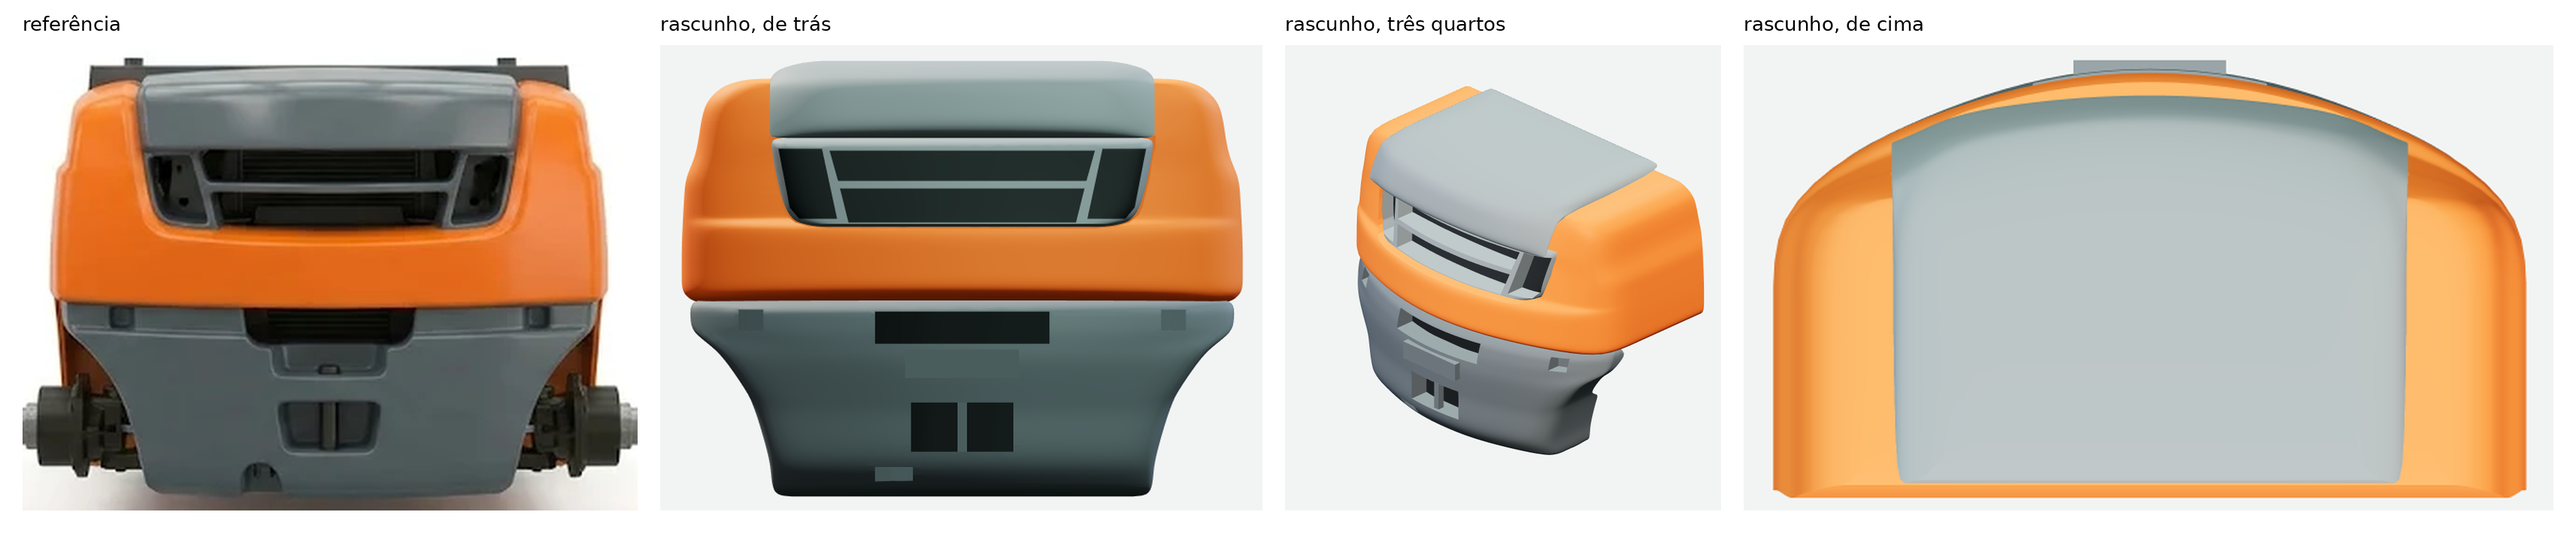
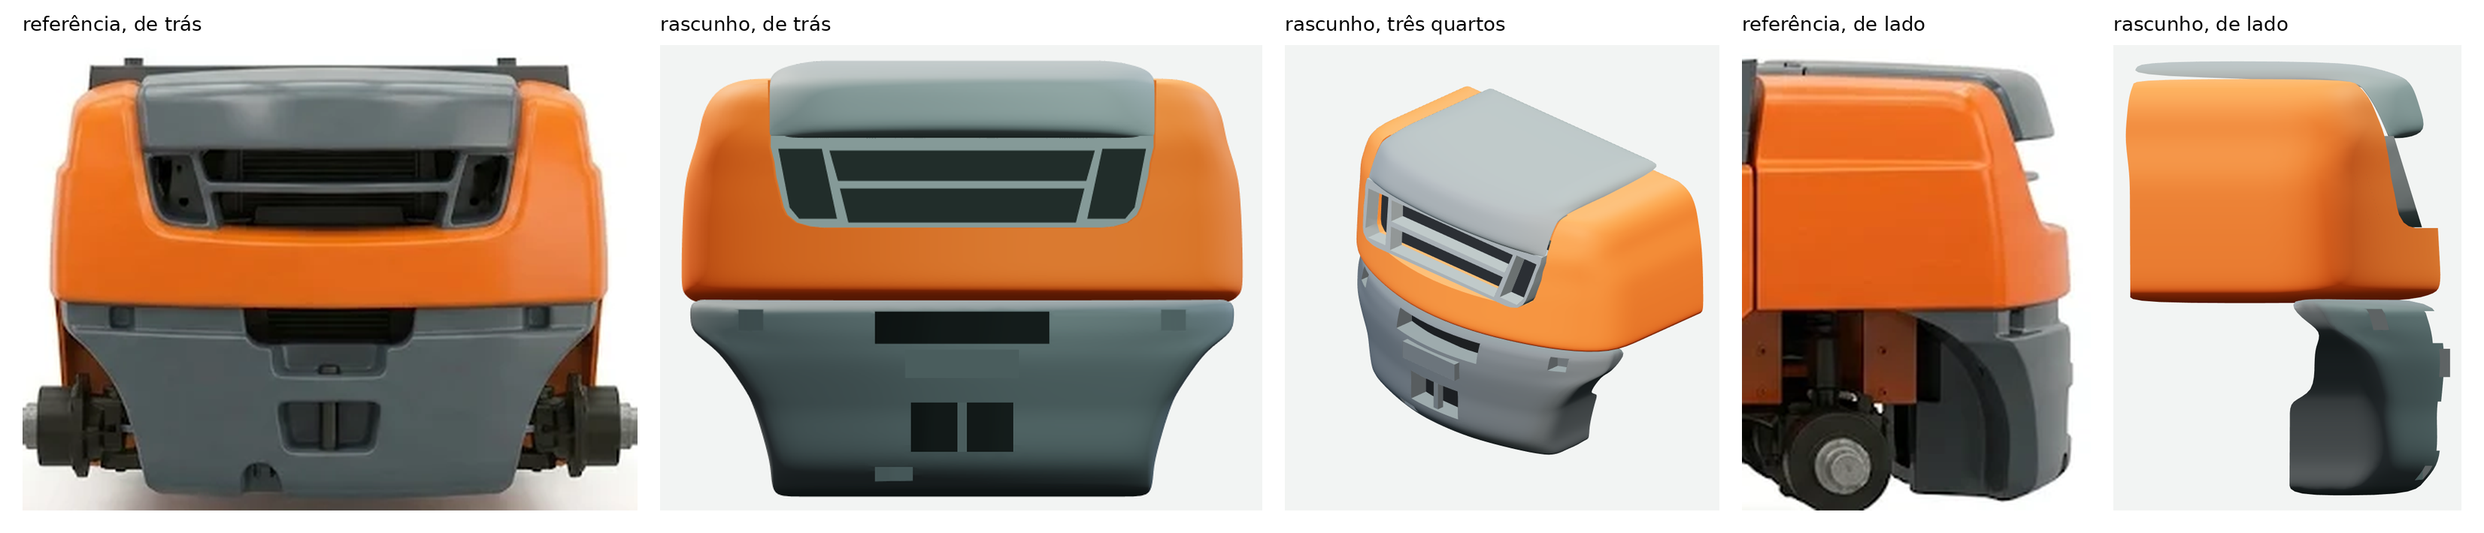
Empilhadeira: capô sem o degrau, que era a soleira do vão da grade [skip ci]
Claude-Session: https://claude.ai/code/session_01Gz8kbSKSe3Jte98VbVpGNR

diff --git a/procedural/nucleo/lacos-pelas-vistas.js b/procedural/nucleo/lacos-pelas-vistas.js
@@ -41,6 +41,10 @@
  * O LAÇO CURTO. Onde o intervalo da altura mede menos que os dois recuos somados (a aba de uma tampa, a ponta de um bico), os
  * recuos encolhem por igual até o lado do laço medir `espessuraMinima`, e a altura entra em `avisos`.
  *
+ * A SILHUETA NÃO É A SEÇÃO DO MEIO quando o corpo tem um vão no centro da ponta (a grade de um capô): acima da soleira do vão, o
+ * que a vista de lado mostra é a borda dele, aquém da ponta pelo recuo da planta naquela largura. Dê em `lado` a seção do meio
+ * (a silhueta mais esse recuo) e corte o vão depois; com a silhueta crua, o degrau da soleira vira um friso de lado a lado.
+ *
  * SEM COMPENSAR. Com `compensar: true` em `gaiolaPorLacos`, a superfície de um capô de 1.190 mm passou de 10 a 30 mm do pedido e
  * ondulou depois de cada degrau da silhueta; sem ela, com um laço a cada 20 a 40 mm, a largura sai no pedido e a ponta fica 5 mm
  * para dentro, sem onda (medido em 2026-11-09, por faixa de altura da malha subdividida). Deixe `compensar` para o arco de cota.

diff --git a/docs/modelar/banco-de-provas/empilhadeira-2026-11-09/ATRITOS.md b/docs/modelar/banco-de-provas/empilhadeira-2026-11-09/ATRITOS.md
@@ -65,3 +65,9 @@ processo o teria pego sozinho e o destino.
    listra dentro de uma cor; a pessoa perguntou o que era. Destino: `lacosPelasVistas` ganhou `cantos: 'fixos'`, que
    deixa os cantos da planta no lugar e encolhe o recuo da ponta na altura em que a silhueta fica aquém do extremo, e
    `extremos`, para o corpo menor que acompanha um maior (a grade); o laranja foi a 85% de coincidência.
+   A listra enfraqueceu no centro e continuou nos lados, e a pessoa a apontou de novo, rente ao pé da grade. A leitura
+   do degrau estava errada: ele não é do laranja, é a soleira do vão da grade. Acima da soleira, o que a lateral vê de
+   mais recuado é a borda do vão, que fica aquém da ponta pelo recuo da planta naquela largura (55 a 95 mm, o tamanho
+   do degrau). A seção do meio do capô passou a ser a silhueta lateral mais esse recuo, sem degrau, com o vão cortando
+   da soleira ao topo, e a lateral do rascunho continua mostrando o degrau, agora pelo vão. O processo não pegaria:
+   silhueta lateral de casco com vão no meio não é a seção do meio, e isso entra como pergunta ao ler a lateral.
